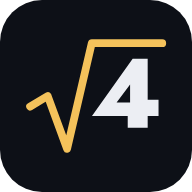
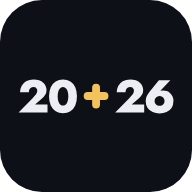
アイコンを 20+26 にした（v72）
4 つの数字の間に金の「+」が 1 つの式。数字はその年にし、毎年変える（オーナーの判断）。
書体は画面と同じ Jost 800 をパスにした。共有画像も合わせた。

Changed region(s): [[0.0938, 0.1875, 0.9062, 0.8125]]

diff --git a/index.html b/index.html
@@ -125,7 +125,7 @@
           <button class="pill" data-wak="share" data-i18n="share">共有</button>
           <span class="pill lang" id="lang-seg" role="group" aria-label="言語 / Language"><button type="button" data-v="ja" lang="ja">日本語</button><span aria-hidden="true">/</span><button type="button" data-v="en" lang="en">English</button></span>
         </div>
-        <div><a href="/">T.OF...</a> ・ <a href="https://t-of.github.io/contact/"><span data-i18n="contact">問い合わせ</span></a> ・ <span class="ver">v71</span></div>
+        <div><a href="/">T.OF...</a> ・ <a href="https://t-of.github.io/contact/"><span data-i18n="contact">問い合わせ</span></a> ・ <span class="ver">v72</span></div>
       </footer>
     </section>
 

diff --git a/sw.js b/sw.js
@@ -9,7 +9,7 @@
 // ブラウザの HTTP キャッシュを通さない（install は reload、fetch は no-cache）。古い main.js と新しい index.html が混ざって動かなくなるのを防ぐ。
 
 const PREFIX = 'four-digits-';
-const VERSION = 'v71';
+const VERSION = 'v72';
 const CACHE = `${PREFIX}${VERSION}`;
 const FONT_CACHE = `${PREFIX}fonts`;
 // 答えのデータ（data/ans/）は版で消えない別のキャッシュ（cache-first）。パスしたときだけ読む。SHELL には入れない。
